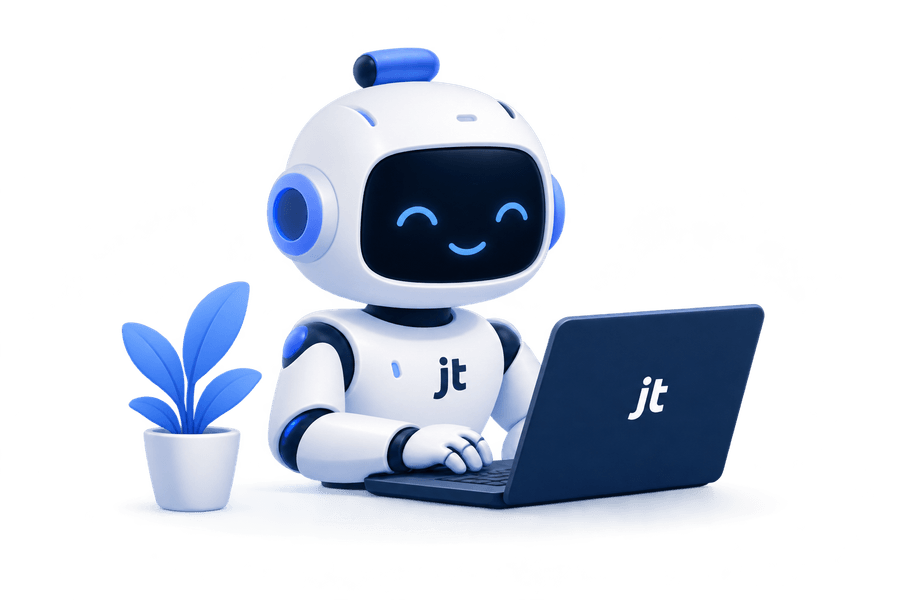
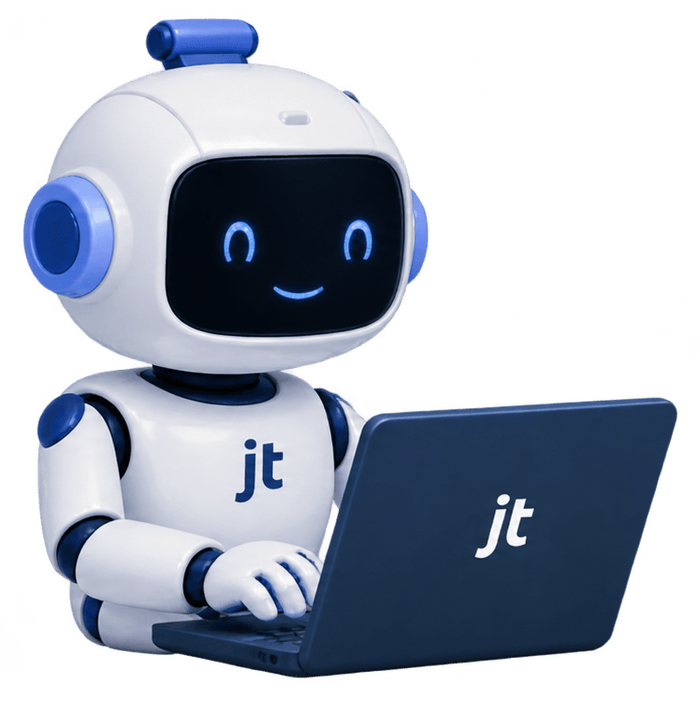
Swap in the real transparent-background robot images
You provided proper cutouts (justit-robot-laptop-transparent.png,
justit-robot-reading-transparent.png) — real alpha transparency this
time, confirmed directly against the pixel data before using them (every
corner checked came back alpha 0). Replaces the dark-card interim
treatment from the previous commit with a plain `object-contain` image
floating directly on the light hero/sidebar background, matching the
original design exactly.

Laptop robot for the listing hero (same role as before); reading robot
for the article sidebar CTA — different image from the hero for visual
variety, and a natural thematic fit next to "you're reading an article,
here's your next opportunity." Both resized and palette-compressed
(118KB/84KB, down from 1.3MB raw) before committing.

Verified live: both images render with real transparent backgrounds
against their respective light-pine backgrounds, pixel-for-pixel
matching the two supplied mockups. Zero console errors, clean build.

diff --git a/src/app/[locale]/(candidate)/blog/page.tsx b/src/app/[locale]/(candidate)/blog/page.tsx
@@ -37,16 +37,8 @@ export default async function BlogIndexPage({ params }: Props) {
           <h1 className="mt-2 font-display text-2xl font-bold text-ink sm:text-3xl">{t("listingHeading")}</h1>
           <p className="mt-3 max-w-lg text-sm leading-relaxed text-muted">{t("listingIntro")}</p>
         </div>
-        {/* Robot illustration — the current source PNG's own dark glow
-         *  background is baked into its pixels (not real transparency; a
-         *  luminance-threshold removal attempt confirmed there's no clean
-         *  way to cut it out automatically), so it's framed in a matching
-         *  dark card rather than floating directly on this light section
-         *  the way the original design calls for. Swap this card out for
-         *  a plain `object-contain` image the moment a transparent-
-         *  background version exists. */}
-        <div className="relative mx-auto aspect-square w-[200px] overflow-hidden rounded-2xl bg-slate-900 sm:w-[240px]">
-          <Image src="/blog/robot-hero.png" alt="" fill sizes="240px" className="object-cover" priority />
+        <div className="relative mx-auto aspect-square w-[200px] sm:w-[240px]">
+          <Image src="/blog/robot-hero.png" alt="" fill sizes="240px" className="object-contain" priority />
         </div>
       </div>
 

diff --git a/src/app/[locale]/(candidate)/blog/[slug]/page.tsx b/src/app/[locale]/(candidate)/blog/[slug]/page.tsx
@@ -137,10 +137,8 @@ export default async function BlogPostPage({ params }: Props) {
           )}
 
           <div className="overflow-hidden rounded-2xl bg-pine/5 p-5">
-            {/* Same dark-card caveat as the listing hero's robot image —
-             *  see that page's own comment. */}
-            <div className="relative mx-auto h-20 w-20 overflow-hidden rounded-xl bg-slate-900">
-              <Image src="/blog/robot-sidebar.png" alt="" fill sizes="80px" className="object-cover" />
+            <div className="relative mx-auto h-20 w-20">
+              <Image src="/blog/robot-sidebar.png" alt="" fill sizes="80px" className="object-contain" />
             </div>
             <h2 className="mt-4 text-sm font-bold text-ink">{t("findOpportunityHeading")}</h2>
             <p className="mt-1 text-xs text-muted">{t("findOpportunityBody")}</p>
